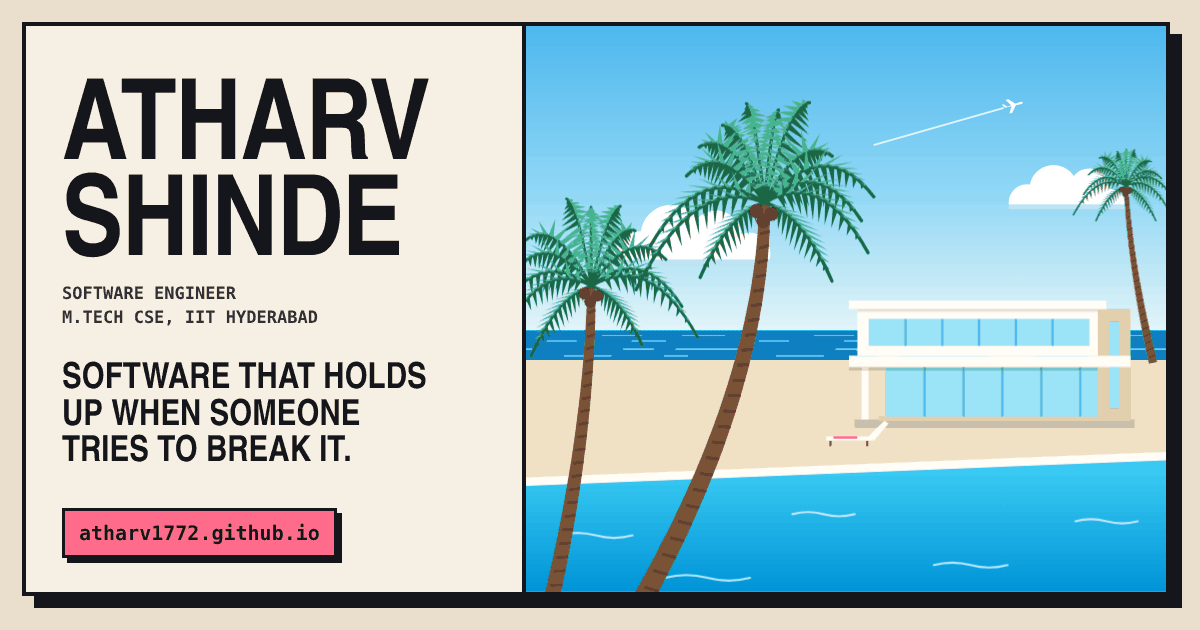
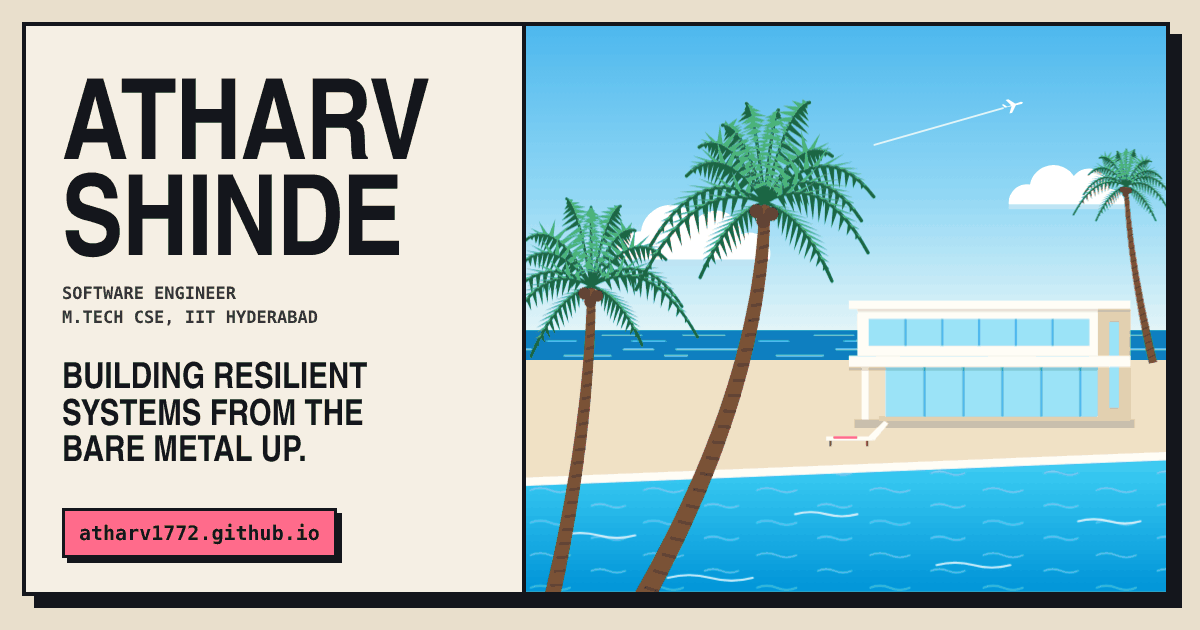
Add files via upload

diff --git a/src/styles/site.css b/src/styles/site.css
@@ -1,7 +1,11 @@
 /* ---------- Base ---------- */
 *, *::before, *::after { box-sizing: border-box; }
 html { background: var(--outer); color: var(--ink); scroll-padding-top: 90px; -webkit-text-size-adjust: 100%; }
-body { margin: 0; padding: 22px; background: var(--outer); font: 400 16.5px/1.6 var(--display); font-stretch: 100%; -webkit-font-smoothing: antialiased; }
+body { margin: 0; padding: 22px; background: transparent; font: 400 16.5px/1.6 var(--display); font-stretch: 100%; -webkit-font-smoothing: antialiased; }
+/* Behind the page, a still sky: tinted at the top with the painting's sky and at the bottom with its horizon,
+   for the current painting and time of day. Fixed, so it stays put while the page scrolls over it; a layer of its
+   own, so scrolling never repaints it. Without color-mix() the flat --outer on <html> shows instead. */
+body::before { content: ""; position: fixed; inset: 0; z-index: -1; pointer-events: none; background: linear-gradient(180deg, color-mix(in srgb, var(--sky1) 42%, var(--outer)) 0%, var(--outer) 55%, color-mix(in srgb, var(--sky2) 34%, var(--outer)) 100%); }
 h1, h2, h3, p, ul, ol, dl, dd, figure { margin: 0; }
 ul, ol { padding: 0; list-style: none; }
 a { color: inherit; text-decoration: none; }
@@ -99,13 +103,13 @@ html:not(.js) .art-switch { display: none; }
 .panel-head { display: flex; justify-content: space-between; align-items: center; gap: 10px; padding: 10px 14px; border-bottom: 3px solid var(--line); font-weight: 800; font-stretch: var(--head-stretch); font-size: 23px; text-transform: uppercase; }
 .panel-head small { font: 500 11px/1.2 var(--mono); text-transform: none; text-align: right; }
 .switch { display: flex; align-items: center; gap: 12px; margin: 14px 0; padding: 0; font: 700 12px/1 var(--mono); text-transform: uppercase; cursor: pointer; background: none; border: 0; }
-.track { position: relative; width: 56px; height: 28px; border: 2px solid var(--line); background: var(--card); box-shadow: 3px 3px 0 var(--shadow); }
-.track i { position: absolute; top: 3px; left: 3px; width: 18px; height: 18px; background: var(--ink); transition: transform var(--snap); }
+.track { border-radius: var(--radius-chip); position: relative; width: 56px; height: 28px; border: 2px solid var(--line); background: var(--card); box-shadow: 3px 3px 0 var(--shadow); }
+.track i { border-radius: var(--radius-dot); position: absolute; top: 3px; left: 3px; width: 18px; height: 18px; background: var(--ink); transition: transform var(--snap); }
 .switch[aria-pressed="true"] .track { background: var(--accent-2-strong); }
 .switch[aria-pressed="true"] .track i { transform: translateX(28px); background: var(--on-accent); } /* dark knob on the blue track in every theme: 3:1 or better */
 .steps { display: grid; grid-template-columns: 1fr 1fr; gap: 6px; font: 500 11.5px/1.35 var(--mono); }
-.steps span { border: 2px solid var(--line); background: var(--card); padding: 7px 8px; }
-.out { margin-top: 12px; border: 2px solid var(--line); padding: 10px 11px; font: 700 12px/1.45 var(--mono); text-transform: uppercase; background: var(--accent); color: var(--on-accent); }
+.steps > span { border-radius: var(--radius-btn); border: 2px solid var(--line); background: var(--card); padding: 7px 8px; }
+.out { border-radius: var(--radius-btn); margin-top: 12px; border: 2px solid var(--line); padding: 10px 11px; font: 700 12px/1.45 var(--mono); text-transform: uppercase; background: var(--accent); color: var(--on-accent); }
 .out.ok { background: var(--accent-2); }
 
 
@@ -117,9 +121,10 @@ html:not(.js) .art-switch { display: none; }
 
 /* ---------- Sections ---------- */
 .section { padding: 46px 28px 56px; border-bottom: 3px solid var(--line); }
-/* Sections below the first screen skip style, layout and paint until they come near the viewport,
-   so a theme switch only recalculates what is on screen. `auto` remembers each one's real height once seen. */
-main > .section { content-visibility: auto; contain-intrinsic-size: auto 1000px; }
+/* The scenery strips are the heaviest part of the page (hundreds of SVG shapes each). Off screen they skip
+   style, layout and paint, so a theme switch only recalculates what is on screen. Their height is fixed in CSS,
+   so skipping them never changes the page's length; text sections render normally, so jumps and keyboard
+   focus always land exactly. */
 main > .vista { content-visibility: auto; contain-intrinsic-size: auto 260px; }
 .section-head { display: flex; justify-content: space-between; align-items: end; gap: 20px; margin-bottom: 28px; }
 .section-head h2 { font-weight: 800; font-stretch: var(--head-stretch); font-size: calc(clamp(44px, 6vw, 76px) * var(--head-scale)); line-height: 0.9; text-transform: uppercase; }
@@ -175,17 +180,17 @@ main > .vista { content-visibility: auto; contain-intrinsic-size: auto 260px; }
 .tags { display: flex; flex-wrap: wrap; gap: 6px; }
 .tags li { border-radius: var(--radius-chip); font: 700 11px/1 var(--mono); text-transform: uppercase; padding: 6px 8px; border: 2px solid var(--line); }
 .bars { display: grid; grid-template-columns: auto 1fr auto; gap: 9px 12px; align-items: center; font: 500 12px/1 var(--mono); }
-.bars i { display: block; height: 14px; border: 2px solid var(--line); background: var(--card); position: relative; }
+.bars i { border-radius: var(--radius-chip); overflow: hidden; display: block; height: 14px; border: 2px solid var(--line); background: var(--card); position: relative; }
 .bars i::after { content: ""; position: absolute; inset: 0 auto 0 0; width: calc(var(--v) * 100%); background: var(--c, var(--ink)); }
 .bars b { text-align: right; font-weight: 700; font-variant-numeric: tabular-nums; }
 .chips-viz { display: grid; gap: 8px; }
-.chips-viz p { font: 500 13.5px/1.35 var(--mono); border: 2px solid var(--line); background: var(--card); padding: 8px 10px 8px 34px; position: relative; }
+.chips-viz p { border-radius: var(--radius-btn); font: 500 13.5px/1.35 var(--mono); border: 2px solid var(--line); background: var(--card); padding: 8px 10px 8px 34px; position: relative; }
 .chips-viz p::before { position: absolute; left: 11px; top: 8px; font-weight: 700; }
 .chips-viz .ok::before { content: "✓"; color: var(--accent-2-ink); }
 .chips-viz .flag { background: var(--accent); color: var(--on-accent); }
 .chips-viz .flag::before { content: "!"; left: 14px; }
 .pipe { display: grid; grid-template-columns: repeat(4, minmax(0, 1fr)); gap: 8px; }
-.pipe li { border: 2px solid var(--line); background: var(--card); padding: 9px 8px; font: 500 12px/1.35 var(--mono); position: relative; }
+.pipe li { border-radius: var(--radius-btn); border: 2px solid var(--line); background: var(--card); padding: 9px 8px; font: 500 12px/1.35 var(--mono); position: relative; }
 .pipe li.key { background: var(--accent-2); color: var(--on-accent); }
 .pipe li:not(:last-child)::after { content: "→"; position: absolute; right: -8px; top: 50%; transform: translate(50%, -50%); font: 700 12px/1 var(--mono); }
 
@@ -212,13 +217,15 @@ button.chip:active { transform: translate(3px, 3px); box-shadow: 0 0 0 var(--sha
 .entry { display: grid; grid-template-columns: 200px minmax(0, 1fr); padding: 22px 0; }
 .entry .when { font: 700 12.5px/1.6 var(--mono); text-transform: uppercase; padding-right: 26px; }
 .entry .what { position: relative; padding-left: 36px; }
-.entry .what::before { content: ""; position: absolute; left: -7px; top: 8px; width: 16px; height: 16px; background: var(--accent); border: 3px solid var(--line); }
+.entry .what::before { border-radius: var(--radius-dot); content: ""; position: absolute; left: -7px; top: 8px; width: 16px; height: 16px; background: var(--accent); border: 3px solid var(--line); }
 .entry h3 { font-weight: 800; font-stretch: var(--head-stretch); font-size: 30px; line-height: 1; text-transform: uppercase; }
 .entry .org { font: 500 12.5px/1.5 var(--mono); text-transform: uppercase; color: var(--muted); margin-top: 6px; }
 .entry p:last-child { margin-top: 10px; max-width: 66ch; color: var(--ink-2); }
 
 /* Academics scoreboard */
-.board { border-radius: var(--radius); border-collapse: separate; border-spacing: 0; overflow: hidden; width: 100%; border-collapse: collapse; border: 3px solid var(--line); box-shadow: 6px 6px 0 var(--shadow); background: var(--card); }
+/* Tables sit in a frame that can be rounded; a table whose borders collapse ignores border-radius */
+.board-wrap { border-radius: var(--radius); overflow: hidden; border: 3px solid var(--line); box-shadow: 6px 6px 0 var(--shadow); background: var(--card); }
+.board { width: 100%; border-collapse: collapse; }
 .board th, .board td { text-align: left; padding: 16px 18px; border-bottom: 2px solid var(--line); vertical-align: middle; }
 .board tr:last-child th, .board tr:last-child td { border-bottom: 0; }
 .board th { font-weight: 800; font-stretch: var(--head-stretch); font-size: 24px; line-height: 1.1; text-transform: uppercase; }
@@ -234,7 +241,7 @@ button.chip:active { transform: translate(3px, 3px); box-shadow: 0 0 0 var(--sha
 .about-text div p { font-size: 18px; line-height: 1.65; color: var(--ink-2); max-width: 58ch; }
 .about-text div p + p { margin-top: 14px; }
 .metro { position: relative; display: grid; grid-template-columns: repeat(3, minmax(0, 1fr)); gap: 24px; margin-top: 56px; padding-top: 70px; }
-.metro::before { content: ""; position: absolute; left: 19px; right: -28px; top: 26px; height: 16px; background: var(--accent); border: 3px solid var(--line); border-right: 0; }
+.metro::before { border-radius: var(--radius-chip); content: ""; position: absolute; left: 19px; right: -28px; top: 26px; height: 16px; background: var(--accent); border: 3px solid var(--line); border-right: 0; }
 .stop { position: relative; min-width: 0; }
 .stop::before { content: ""; position: absolute; left: 0; top: -55px; width: 38px; height: 38px; border-radius: 50%; background: var(--card); border: 4px solid var(--line); }
 .stop.is-here::before { background: var(--ink); box-shadow: 0 0 0 4px var(--paper), 0 0 0 7px var(--line); }
@@ -268,7 +275,7 @@ button.chip:active { transform: translate(3px, 3px); box-shadow: 0 0 0 var(--sha
 /* Contact */
 .contact h2 { font-weight: 800; font-stretch: var(--head-stretch); font-size: calc(clamp(56px, 9vw, 128px) * var(--head-scale)); line-height: 0.86; text-transform: uppercase; }
 .email-row { display: flex; flex-wrap: wrap; align-items: center; gap: 16px 22px; margin-top: 28px; }
-.email { font: 800 calc(clamp(30px, 4.4vw, 58px) * var(--head-scale))/1.15 var(--display); font-stretch: var(--head-stretch); border-bottom: 4px solid var(--accent); overflow-wrap: anywhere; }
+.email { border-radius: calc(var(--radius-btn) * 0.6); font: 800 calc(clamp(30px, 4.4vw, 58px) * var(--head-scale))/1.15 var(--display); font-stretch: var(--head-stretch); border-bottom: 4px solid var(--accent); overflow-wrap: anywhere; }
 .email:hover { background: var(--accent); color: var(--on-accent); }
 .contact-links { display: flex; flex-wrap: wrap; gap: 12px; margin-top: 30px; }
 
@@ -301,7 +308,7 @@ button.chip:active { transform: translate(3px, 3px); box-shadow: 0 0 0 var(--sha
 .metric b { display: block; font: 700 24px/1.15 var(--mono); font-variant-numeric: tabular-nums; }
 .metric span { font: 500 12px/1.4 var(--mono); color: var(--muted); }
 .case-cols { display: grid; grid-template-columns: repeat(2, minmax(0, 1fr)); gap: 26px 40px; margin-top: 32px; }
-.case h3 { font: 700 12px/1.4 var(--mono); text-transform: uppercase; background: var(--ink); color: var(--paper); display: inline-block; padding: 5px 8px; margin-bottom: 10px; }
+.case h3 { border-radius: calc(var(--radius-btn) * 0.6); font: 700 12px/1.4 var(--mono); text-transform: uppercase; background: var(--ink); color: var(--paper); display: inline-block; padding: 5px 8px; margin-bottom: 10px; }
 .case-cols p { color: var(--ink-2); }
 .case-cols p + p { margin-top: 10px; }
 .demo { border-radius: var(--radius); overflow: hidden; margin-top: 32px; border: 3px solid var(--line); box-shadow: 6px 6px 0 var(--shadow); background: var(--card); }
@@ -312,9 +319,9 @@ button.chip:active { transform: translate(3px, 3px); box-shadow: 0 0 0 var(--sha
 .faith-demo .label { font: 700 11.5px/1 var(--mono); text-transform: uppercase; margin-bottom: 8px; }
 .faith-source { font-size: 17px; line-height: 1.6; }
 .faith-source span { padding: 1px 3px; }
-.faith-source span.is-linked { background: var(--accent-2); color: var(--on-accent); box-shadow: 0 0 0 2px var(--line); }
+.faith-source span.is-linked { border-radius: calc(var(--radius-btn) * 0.4); background: var(--accent-2); color: var(--on-accent); box-shadow: 0 0 0 2px var(--line); }
 .faith-answer { display: grid; gap: 8px; }
-.faith-answer button { width: 100%; text-align: left; cursor: pointer; font: 400 16px/1.45 var(--display); padding: 10px 12px 10px 36px; border: 2px solid var(--line); background: var(--paper); position: relative; box-shadow: 3px 3px 0 var(--shadow); transition: transform var(--snap), box-shadow var(--snap); }
+.faith-answer button { border-radius: var(--radius-btn); width: 100%; text-align: left; cursor: pointer; font: 400 16px/1.45 var(--display); padding: 10px 12px 10px 36px; border: 2px solid var(--line); background: var(--paper); position: relative; box-shadow: 3px 3px 0 var(--shadow); transition: transform var(--snap), box-shadow var(--snap); }
 .faith-answer button:active { transform: translate(3px, 3px); box-shadow: 0 0 0 var(--shadow); }
 .faith-answer button::before { position: absolute; left: 12px; top: 10px; font: 700 14px/1.45 var(--mono); }
 .faith-answer button[data-verdict="ok"]::before { content: "✓"; color: var(--accent-2-ink); }
@@ -322,8 +329,9 @@ button.chip:active { transform: translate(3px, 3px); box-shadow: 0 0 0 var(--sha
 .faith-answer button[data-verdict="flag"] { background: var(--accent); color: var(--on-accent); }
 .faith-answer button[aria-pressed="true"] { outline: 3px solid var(--accent-2-ink); outline-offset: 2px; }
 .faith-verdict { margin-top: 14px; font: 500 13px/1.5 var(--mono); }
-.score { width: 100%; max-width: 760px; margin-top: 26px; border-collapse: collapse; border: 3px solid var(--line); box-shadow: 6px 6px 0 var(--shadow); background: var(--card); }
-.score caption { caption-side: bottom; text-align: left; padding-top: 12px; font: 500 12px/1.5 var(--mono); color: var(--muted); }
+.score-wrap { max-width: 760px; margin-top: 26px; border-radius: var(--radius); overflow: hidden; border: 3px solid var(--line); box-shadow: 6px 6px 0 var(--shadow); background: var(--card); }
+.score { width: 100%; border-collapse: collapse; }
+.score-note { max-width: 760px; padding-top: 12px; font: 500 12px/1.5 var(--mono); color: var(--muted); }
 .score th, .score td { padding: 11px 14px; border-bottom: 2px solid var(--line); text-align: left; }
 .score thead th { font: 700 11.5px/1.2 var(--mono); text-transform: uppercase; background: var(--ink); color: var(--paper); }
 .score thead th:not(:first-child), .score td { text-align: right; }
@@ -349,7 +357,7 @@ button.chip:active { transform: translate(3px, 3px); box-shadow: 0 0 0 var(--sha
 @media (max-width: 1180px) {
   .nav { display: none; }
   .menu-btn { display: inline-flex; }
-  .nav.is-open { display: grid; position: absolute; left: 0; right: 0; top: 100%; margin: 0; padding: 16px 18px 20px; gap: 12px; background: var(--paper); border-bottom: 3px solid var(--line); }
+  .nav.is-open { border-radius: 0 0 var(--radius) var(--radius); display: grid; position: absolute; left: 0; right: 0; top: 100%; margin: 0; padding: 16px 18px 20px; gap: 12px; background: var(--paper); border-bottom: 3px solid var(--line); }
   .hero { grid-template-columns: minmax(0, 1fr) minmax(0, 1fr); }
   .card.wide, .card.narrow, .card.big, .card.full, .card { grid-column: span 12; }
   .card.big { grid-row: auto; }
@@ -397,7 +405,7 @@ button.chip:active { transform: translate(3px, 3px); box-shadow: 0 0 0 var(--sha
   .card-stats { grid-template-columns: 1fr; }
   .pipe { grid-template-columns: 1fr 1fr; }
   .pipe li:nth-child(2)::after { display: none; }
-  .sheet { width: 100vw; height: 100dvh; border: 0; box-shadow: none; }
+  .sheet { width: 100vw; height: 100dvh; border: 0; box-shadow: none; border-radius: 0; }
   .case-cols, .faith-demo { grid-template-columns: 1fr; }
   .steps { grid-template-columns: 1fr; }
 }

diff --git a/src/content/history.js b/src/content/history.js
@@ -5,7 +5,7 @@ export const experience = [
     when: 'Jul 2025 – now',
     title: 'Teaching Assistant',
     org: 'IIT Hyderabad',
-    text: 'I run lab sessions for Computer Architecture, Algorithms, and Advanced Data Structures and Algorithms, grade, coordinate exams, and help students get unstuck.',
+    text: 'I run lab sessions for Computer Architecture, Algorithms, and Advanced Data Structures and Algorithms. I also grade assignments, coordinate and grade exams, and help students get unstuck.',
   },
   {
     id: 'mastercard',
@@ -13,7 +13,7 @@ export const experience = [
     when: 'May – Jul 2023',
     title: 'SDE Intern',
     org: 'Mastercard, Pune',
-    text: 'I worked on the Individual Data Access Portal, the web app Mastercard users worldwide use to see their personal data. I wrote Selenium (Java) tests for its interface, chased down failing network requests, added REST API checks to the QA pipeline, and kept the compliance documents in order.',
+    text: 'I worked on the Individual Data Access Portal, a web app deployed worldwide where users view their personal data. I wrote Selenium (Java) tests for its interface, chased down failing network requests, added REST API checks to the QA pipeline, and kept the compliance documents in order.',
   },
 ];
 
@@ -27,10 +27,11 @@ export const academics = [
 ];
 
 export const about = {
-  big: 'Electronics first, then software.',
+  big: 'Find the breaking point. Engineer it out.',
   paragraphs: [
-    'Kolhapur for school, Pune for an electronics degree, Hyderabad for computer science. What ties it together: I like finding where things break, whether that’s a web portal’s tests at Mastercard, a payments app in a security war game, or an evaluation that catches what standard metrics miss.',
-    'Away from the keyboard, I paint. The two scenes on this page, a coast and a paddy field, are paintings done in code, inspired by Hiroshi Nagai’s City Pop work.',
+    'My engineering foundation is in electronics; my execution is in machine learning and distributed systems. My hardware background taught me to build from the lowest layer up—a first-principles philosophy I now apply across the entire computational stack.',
+    'I do not just train models; I engineer the architectures that sustain them. Whether I am developing semi-supervised federated learning pipelines for medical imaging, building evaluation frameworks that expose LLM hallucinations (FaithBench), or securing a peer-to-peer payments app against active attacks (TransactiWar), my goal is to find the structural breaking points and mathematically engineer them out.',
+    'This rigorous, data-driven approach extends directly to the frontend. I am a traditional acrylic painter, but the landscapes on this site are entirely engineered in code. There are no static images; they are constructed from raw SVG mathematics, CSS variables, and frame-synced animation. It is where visual design meets the exact same structural precision I demand from my machine learning models.',
   ],
   stops: [
     { code: 'KLH', city: 'Kolhapur', years: 'Until 2020', did: 'School and junior college' },

diff --git a/tests/unit/store.test.js b/tests/unit/store.test.js
@@ -2,7 +2,7 @@ import { test } from 'node:test';
 import assert from 'node:assert/strict';
 import { makeStore } from '../../src/store';
 import { setArt, setMode, tick, toggleMotion, selectScene, selectTheme, selectMotion } from '../../src/store/uiSlice';
-import { togglePin, hoverSkill, hoverProject, selectFocus } from '../../src/store/highlightSlice';
+import { togglePin, hoverSkill, hoverProject, selectFocus, selectPinned } from '../../src/store/highlightSlice';
 import { openCase, closeCase, selectOpenCase } from '../../src/store/caseSlice';
 import { selectActionLog } from '../../src/store/actionLogSlice';
 
@@ -71,6 +71,18 @@ test('a hovered skill wins over the pinned one, and a second click unpins', () =
   assert.deepEqual(skills(), ['python']);
   store.dispatch(togglePin('python'));
   assert.equal(selectFocus(store.getState()).kind, null);
+});
+
+test('a second click clears a pinned skill at once, with the mouse still on the chip', () => {
+  const store = makeStore();
+  store.dispatch(hoverSkill('react')); // the mouse is on the chip
+  store.dispatch(togglePin('react')); // first click pins
+  assert.equal(selectPinned(store.getState()), 'react');
+  store.dispatch(togglePin('react')); // second click, mouse not moved
+  assert.equal(selectPinned(store.getState()), null);
+  assert.equal(selectFocus(store.getState()).kind, null);
+  store.dispatch(hoverSkill('react')); // the mouse leaves the chip and comes back
+  assert.deepEqual(selectFocus(store.getState()).skills, ['react']);
 });
 
 test('hovering a project lights its skills', () => {

diff --git a/src/styles/cards.css b/src/styles/cards.css
@@ -20,11 +20,20 @@
 .fedmap .model { fill: var(--accent-4); stroke: var(--line); stroke-width: 2.5; }
 .fedmap .model-label { font-weight: 700; fill: var(--on-accent); }
 .fedmap .out { stroke: var(--ink); stroke-width: 2.5; }
+/* Boxes drawn in SVG follow the theme's corners too */
+.fedmap .box, .fedmap .model, .viz-race .box, rect.server { rx: var(--svg-rx); }
+.fedmap .xray { rx: calc(var(--svg-rx) * 0.5); }
 
 /* AdaptFedMLP: each hospital labels one bleed type */
+.matrix-wrap { border-radius: var(--radius-btn); overflow: hidden; border: 2px solid var(--line); }
 .label-matrix { width: 100%; border-collapse: collapse; font: 500 12px/1 var(--mono); text-align: center; }
-.label-matrix caption { caption-side: bottom; text-align: left; padding-top: 10px; color: var(--muted); font: 500 12px/1.4 var(--mono); }
+.matrix-note { padding-top: 10px; color: var(--muted); font: 500 12px/1.4 var(--mono); }
 .label-matrix th, .label-matrix td { padding: 7px 4px; border: 2px solid var(--line); }
+/* the frame draws the outer edge, so the grid keeps only its inner lines */
+.label-matrix tr > :first-child { border-left: 0; }
+.label-matrix tr > :last-child { border-right: 0; }
+.label-matrix thead tr > * { border-top: 0; }
+.label-matrix tbody tr:last-child > * { border-bottom: 0; }
 .label-matrix thead th { font-weight: 700; }
 .label-matrix td.known { background: var(--accent-2); color: var(--on-accent); font-weight: 700; }
 .label-matrix td.unknown { color: var(--muted); }

diff --git a/src/content/projects.js b/src/content/projects.js
@@ -51,7 +51,7 @@ export const projects = [
       ],
       sections: [
         { h: 'What we built', p: ['Accounts, transfers and profiles in PHP and MySQL, in Docker behind Apache. The defences: parameterized queries, CSRF tokens, output encoding backed by a Content Security Policy, Argon2id password hashing, one-time nonces so a transfer can’t be replayed, and row locks so two transfers can’t spend the same balance.'] },
-        { h: 'The war game', p: ['For a week in March, other teams attacked our app while we attacked theirs. None of the 16 reports against us got any data out. The closest call was SSL stripping, which worked only because HSTS can’t protect a bare IP address, a limit of the exercise setup. On offence, we took over another team’s admin account: their login had no rate limit, trusted a spoofable X-Forwarded-For header, and still used admin:admin.'] },
+        { h: 'The war game', p: ['For a week in March, other teams attacked our app while we attacked theirs. None of the 16 reports against us got any data out. The closest call was SSL stripping: the downgrade itself succeeded, only because HSTS can’t protect a bare IP address (a limit of the exercise setup), but it got no data out. On offence, we took over another team’s admin account: their login had no rate limit, trusted a spoofable X-Forwarded-For header, and still used admin:admin.'] },
       ],
       demo: 'race',
     },

diff --git a/src/styles/highlight.css b/src/styles/highlight.css
@@ -6,7 +6,7 @@
 .board tr th, .board tr td { transition: background-color var(--snap), color var(--snap); }
 .board tr.is-lit th, .board tr.is-lit td { background: var(--accent-2); color: var(--on-accent); }
 .entry h3 { transition: background-color var(--snap), color var(--snap), box-shadow var(--snap); }
-.entry.is-lit h3 { display: inline; background: var(--accent-2); color: var(--on-accent); box-shadow: 0 0 0 4px var(--accent-2); }
+.entry.is-lit h3 { border-radius: calc(var(--radius-btn) * 0.5); display: inline; background: var(--accent-2); color: var(--on-accent); box-shadow: 0 0 0 4px var(--accent-2); }
 
 /* "Pick one to see where I used it": the answer appears under the picked chip, because the lit
    project cards are usually off screen. Clicking pins it; hover only lights things, so nothing below shifts. */
@@ -14,5 +14,5 @@
 .chips .skill-result:empty { margin: 0; }
 .skill-result b { color: var(--ink); font-weight: 700; }
 .skill-result a { color: var(--ink); text-decoration-line: underline; text-decoration-thickness: 2px; text-decoration-color: var(--accent-ink); text-underline-offset: 3px; }
-.skill-result a:hover { background: var(--accent-2); color: var(--on-accent); }
+.skill-result a:hover { border-radius: calc(var(--radius-btn) * 0.4); background: var(--accent-2); color: var(--on-accent); }
 .skill-result small { font-size: inherit; color: var(--muted); }

diff --git a/src/components/CaseSheet.jsx b/src/components/CaseSheet.jsx
@@ -16,11 +16,14 @@ export function CaseStudy({ project, inLibrary = false }) {
       <ul className="tags">{c.tags.map((t) => <li key={t}>{t}</li>)}</ul>
       {c.metrics && <div className="metrics">{c.metrics.map(([b, s]) => <div className="metric" key={s}><b>{b}</b><span>{s}</span></div>)}</div>}
       {c.score && (
-        <table className="score">
-          <caption>{c.score.caption}</caption>
+        <>
+        <div className="score-wrap"><table className="score">
+          <caption className="visually-hidden">{c.score.caption}</caption>
           <thead><tr>{c.score.head.map((h) => <th key={h} scope="col">{h}</th>)}</tr></thead>
           <tbody>{c.score.rows.map((r) => <tr key={r.cells[0]} className={r.mine ? 'mine' : undefined}><th scope="row">{r.cells[0]}</th><td>{r.cells[1]}</td><td>{r.cells[2]}</td></tr>)}</tbody>
-        </table>
+        </table></div>
+        <p className="score-note" aria-hidden="true">{c.score.caption}</p>
+        </>
       )}
       <div className="case-cols">
         {c.sections.map((s) => <div key={s.h}><h3>{s.h}</h3>{s.p.map((p) => <p key={p.slice(0, 24)}>{p}</p>)}</div>)}

diff --git a/src/styles/tokens.css b/src/styles/tokens.css
@@ -140,7 +140,7 @@
 :root[data-art="fields"][data-scene="golden"] { --fb-back: #EBC9A0; --fb-mid: #C9B85A; --fb-front: #55702F; --fb-trunk: #4A3626; --fb-wall: #FFE9D2; --fb-roof: #C9493A; --fb-win: #FFD08A; }
 
 /* Shape and type also change with the painting: hard and condensed by the sea, rounder and wider in the fields */
-:root { --head-stretch: 62%; --head-scale: 1; --radius: 0px; --radius-btn: 0px; --radius-chip: 0px; }
-:root[data-art="fields"] { --head-stretch: 100%; --head-scale: 0.82; --radius: 16px; --radius-btn: 10px; --radius-chip: 999px; }
+:root { --head-stretch: 62%; --head-scale: 1; --radius: 0px; --radius-btn: 0px; --radius-chip: 0px; --radius-dot: 0px; --svg-rx: 0px; }
+:root[data-art="fields"] { --head-stretch: 100%; --head-scale: 0.82; --radius: 16px; --radius-btn: 10px; --radius-chip: 999px; --radius-dot: 50%; --svg-rx: 8px; }
 /* In the fields, palms take the colours of the other trees */
 :root[data-art="fields"] { --palm-trunk: var(--trunk); --palm-ring: var(--tree); --palm-leaf: var(--tree); --palm-hi: var(--tree-2); --palm-nut: var(--trunk); }

diff --git a/src/components/viz.jsx b/src/components/viz.jsx
@@ -54,8 +54,8 @@ export const LabelMatrix = memo(function LabelMatrix() {
   const types = ['EDH', 'IPH', 'IVH', 'SAH', 'SDH'];
   return (
     <div className="viz">
-      <table className="label-matrix">
-        <caption>Each hospital labels one bleed type; the other four are unknown.</caption>
+      <div className="matrix-wrap"><table className="label-matrix">
+        <caption className="visually-hidden">Each hospital labels one bleed type; the other four are unknown.</caption>
         <thead><tr><th scope="col"><span className="visually-hidden">Hospital</span></th>{types.map((t) => <th key={t} scope="col">{t}</th>)}</tr></thead>
         <tbody>
           {types.map((_, row) => (
@@ -65,7 +65,8 @@ export const LabelMatrix = memo(function LabelMatrix() {
             </tr>
           ))}
         </tbody>
-      </table>
+      </table></div>
+      <p className="matrix-note" aria-hidden="true">Each hospital labels one bleed type; the other four are unknown.</p>
     </div>
   );
 });

diff --git a/src/components/Sections.jsx b/src/components/Sections.jsx
@@ -99,14 +99,14 @@ export function Academics() {
   return (
     <section className="section" id="academics" aria-labelledby="acad-title">
       <div className="section-head"><h2 id="acad-title">Academics and ranks</h2><p>exams and degrees</p></div>
-      <table className="board">
+      <div className="board-wrap"><table className="board">
         <caption className="visually-hidden">Exam ranks and grades</caption>
         <tbody>
           {academics.map((a) => (
             <tr key={a.name} className={[a.top && 'top', focus.proofs.includes(a.id) && 'is-lit'].filter(Boolean).join(' ') || undefined}><th scope="row">{a.name}</th><td>{a.detail}</td><td className="num">{a.value}</td></tr>
           ))}
         </tbody>
-      </table>
+      </table></div>
     </section>
   );
 }

diff --git a/src/store/highlightSlice.js b/src/store/highlightSlice.js
@@ -8,7 +8,14 @@ const highlightSlice = createSlice({
   initialState: { pinned: null, hoverSkill: null, hoverProject: null },
   reducers: {
     togglePin(state, action) {
-      state.pinned = state.pinned === action.payload ? null : action.payload;
+      if (state.pinned === action.payload) {
+        // A second click unpins. The mouse is usually still on the chip, and a hovered chip looks the same as a
+        // pinned one, so the hover highlight goes too; otherwise nothing would change until the mouse moved away.
+        state.pinned = null;
+        state.hoverSkill = null;
+      } else {
+        state.pinned = action.payload;
+      }
     },
     hoverSkill(state, action) {
       state.hoverSkill = action.payload;

diff --git a/src/lib/theme.js b/src/lib/theme.js
@@ -8,7 +8,7 @@ export function applyTheme({ art, mode, scene, theme }) {
   d.dataset.scene = scene;
   d.dataset.theme = theme;
   const meta = document.querySelector('meta[name="theme-color"]');
-  if (meta) meta.content = getComputedStyle(document.body).backgroundColor;
+  if (meta) meta.content = getComputedStyle(document.documentElement).backgroundColor;
 }
 
 export const prefersReducedMotion = () => typeof window !== 'undefined' && window.matchMedia('(prefers-reduced-motion: reduce)').matches;
